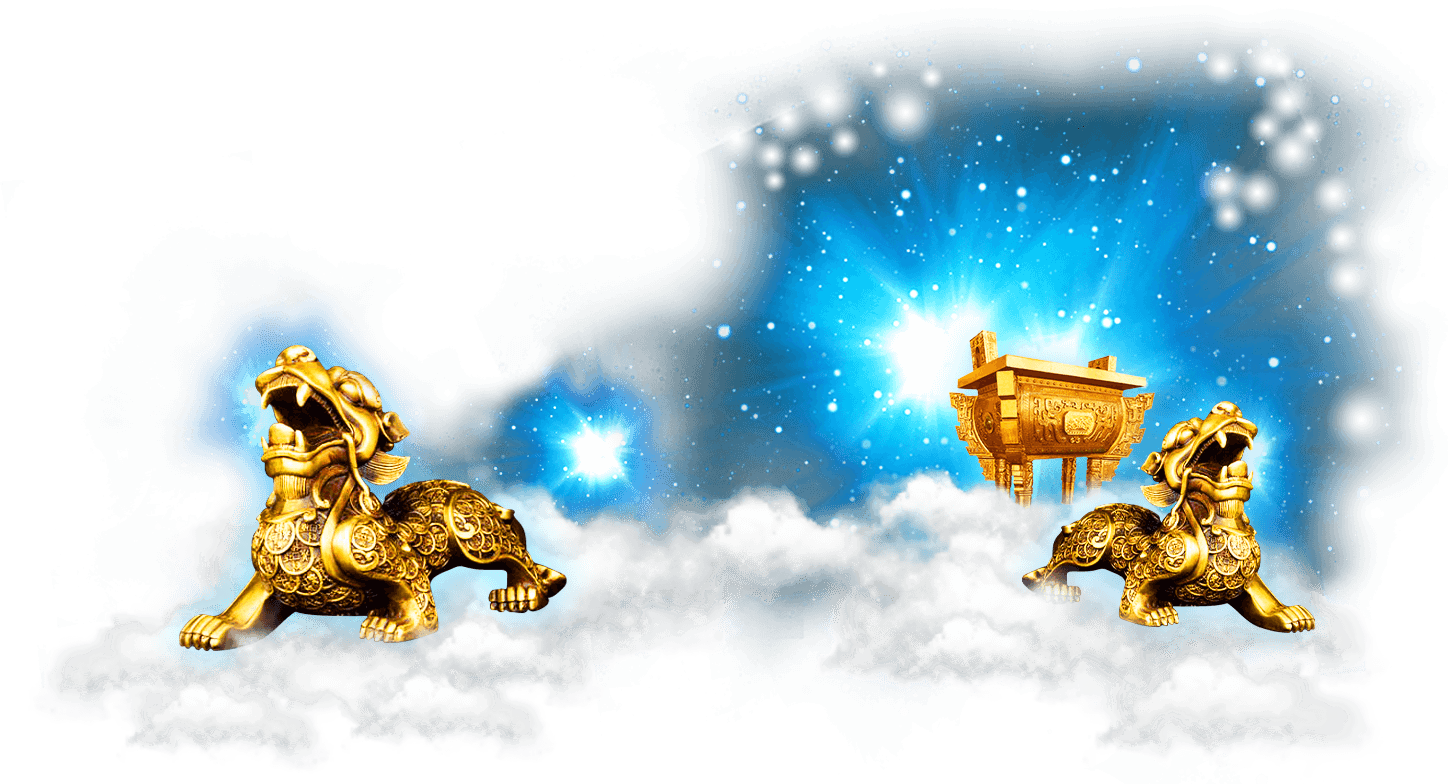
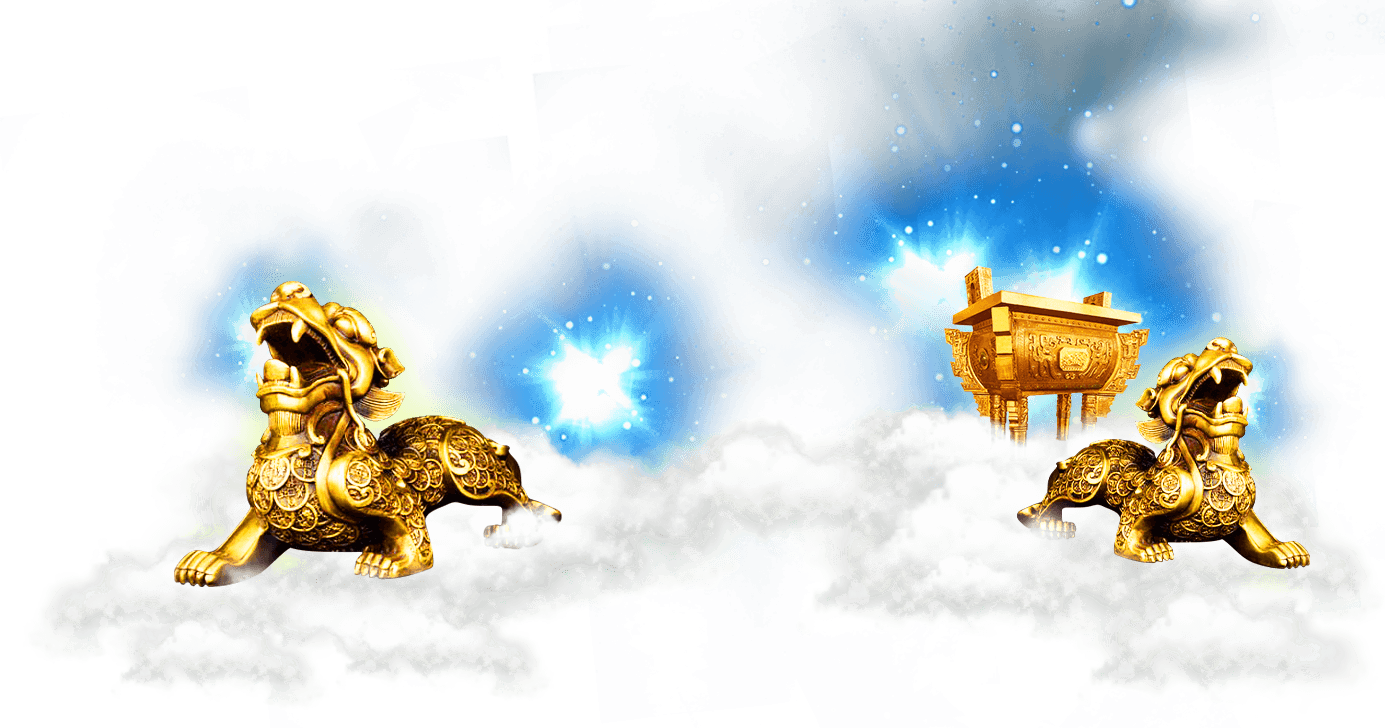
修改主題圖片

diff --git a/demo0002/css/main.css b/demo0002/css/main.css
@@ -387,10 +387,10 @@ html {
     
     
   .container .coins {
-    width: 1448px;
-    height: 800px;
+    width: 1385px;
+    height: 728px;
     margin-left: -27%;
-    margin-top: -21%;
+    margin-top: -15%;
     position: absolute;
     top: 0;
     background: url(../images/leftImg.png) no-repeat;
